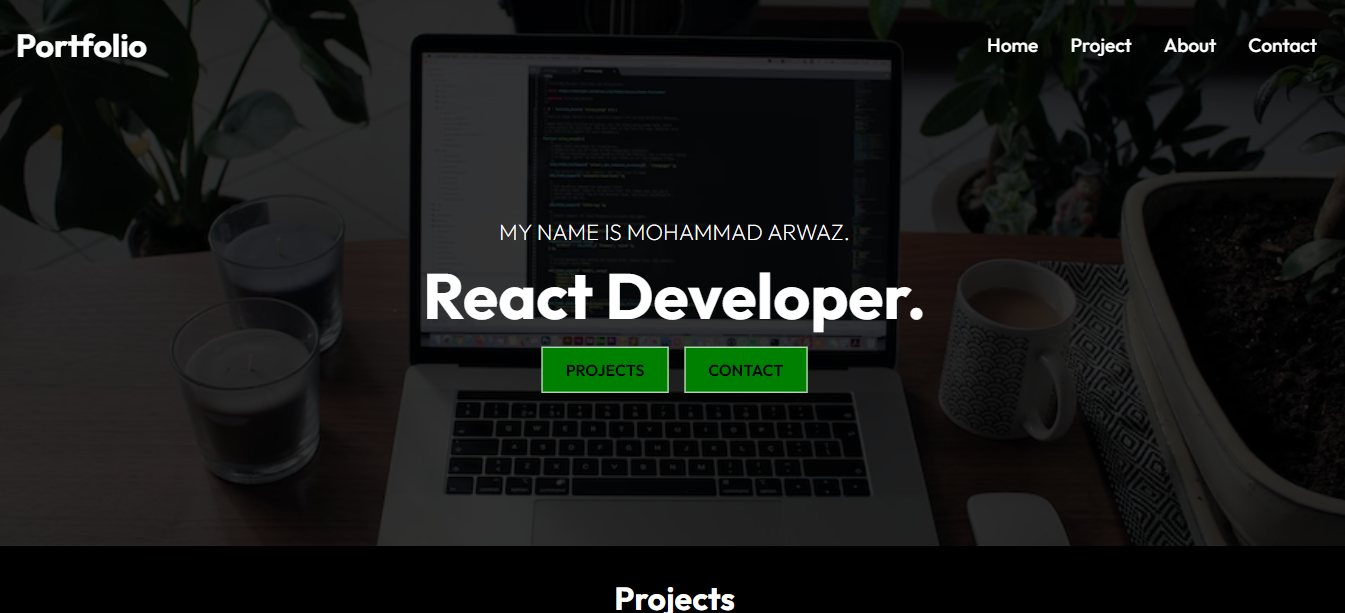
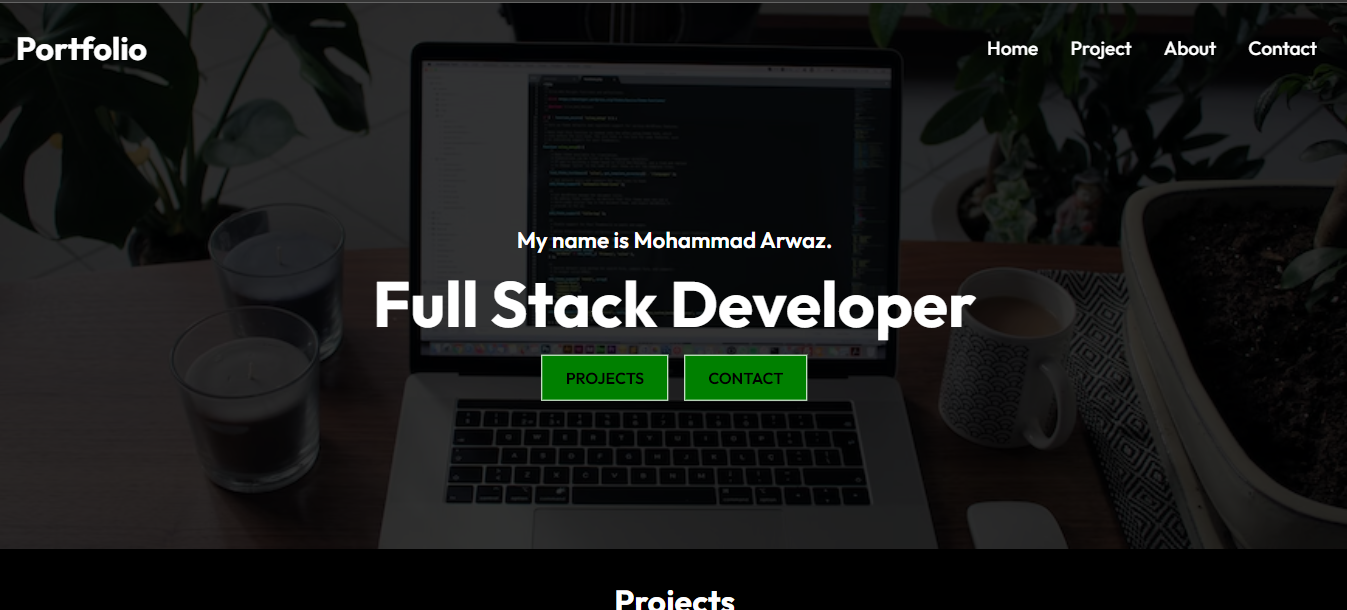
update my about section

diff --git a/src/components/WorkCardData.js b/src/components/WorkCardData.js
@@ -8,7 +8,7 @@ const ProjectCardData = [
     {
         imgsrc: pro1,
         title: 'My Portfolio',
-        text: "Build a portfolio website using React, is a dynamic platform for presenting your work, experience, skills, sharing personal information like contact, address,  email, about and highlighting your accomplishments. It serves as a perpetual showcase for projects and case studies, offering an effective means of self-expression and establishing your professional identity.",
+        text: "Built a portfolio app using MERN Stack, is a dynamic platform for presenting my work, experience, skills, sharing personal information like contact, address, email, about and highlighting your accomplishments. It serves as a perpetual showcase for projects and case studies, offering an effective means of self-expression and establishing your professional identity.",
         view: 'https://my-portfolio-md-arwaz.web.app/',
         source: 'https://github.com/mdarwaz0786/my-portfolio',
     },
@@ -16,7 +16,7 @@ const ProjectCardData = [
     {
         imgsrc: pro2,
         title: 'E-Shop',
-        text: "Build an e-commerce website using React, that facilitates online buying and selling of physical goods, services, and digital products, replacing traditional brick-and-mortar transactions. It serves as a digital platform through which businesses efficiently process customer orders, providing a seamless and convenient shopping experience on the internet.",
+        text: "Built an e-commerce web app using MERN Stack, that facilitates online buying and selling of physical goods, services, and digital products, replacing traditional brick-and-mortar transactions. It serves as a digital platform through which businesses efficiently process customer orders, providing a seamless and convenient shopping experience on the internet.",
         view: 'https://e-shop-mdarwaz.web.app/',
         source: 'https://github.com/mdarwaz0786/e-shop',
     },
@@ -24,7 +24,7 @@ const ProjectCardData = [
     {
         imgsrc: pro3,
         title: 'w3school Clone',
-        text: 'Build w3Schools clone using React. is a prominent online education platform known for its free web development tutorials. Its standout feature is the "Try it Yourself" editor, enabling users to practice coding within each tutorial. This interactive approach fosters hands-on learning, making it a favored choice for web development, Mobile development enthusiasts.',
+        text: 'Built w3School clone using MERN Stack, is a prominent online education platform known for its free web development tutorials. Its standout feature is the "Try it Yourself" with code editor, enabling users to practice coding within each tutorial. This interactive approach fosters hands-on learning, making it a favored choice for web development, Mobile development enthusiasts.',
         view: 'https://w3school-clone-md-arwaz.web.app/',
         source: 'https://github.com/mdarwaz0786/w3school',
     },
@@ -32,7 +32,7 @@ const ProjectCardData = [
     {
         imgsrc: pro4,
         title: 'Weather App',
-        text: "Build weather app using React Native, is a user-friendly mobile application that provides real-time meteorological information, forecasts, and weather-related data. Users can access accurate weather updates, including temperature, precipitation, and forecasts, making it an essential tool for planning outdoor activities and staying informed about local or global weather conditions",
+        text: "Built weather Android app using React Native, is a user-friendly mobile application that provides real-time meteorological information, forecasts, and weather-related data. Users can access accurate weather updates, including temperature, precipitation, and forecasts, making it an essential tool for planning outdoor activities and staying informed about local or global weather conditions",
         view: 'https://expo.dev/accounts/mdarwaz0786/projects/Weather-App/builds/c8f66f9f-c316-41eb-8582-d0ecfcc920d6',
         source: 'https://github.com/mdarwaz0786/weather-app',
     },

diff --git a/src/components/Footer.js b/src/components/Footer.js
@@ -6,6 +6,7 @@ import { FaMailBulk } from 'react-icons/fa';
 import { FaFacebook } from 'react-icons/fa';
 import { FaTwitter } from 'react-icons/fa';
 import { FaLinkedin } from 'react-icons/fa';
+import { Link } from 'react-router-dom';
 
 const Footer = () => {
     return (
@@ -15,34 +16,37 @@ const Footer = () => {
                     <div className='location'>
                         <p><FaHome size={20} style=
                             {{ color: '#fff', marginRight: '2rem' }} />
-                            Ward no. 10, Jitwarpur Kumhira, Samastipur, Bihar.
+                            Samastipur, Bihar, India
                         </p>
                     </div>
                     <div className='phone'>
-                        <h4><FaPhone size={20} style=
-                            {{ color: '#fff', marginRight: '2rem' }} />+91-8340723693</h4>
+                        <p><FaPhone size={20} style=
+                            {{ color: '#fff', marginRight: '2rem' }} />+91-8340723693</p>
                     </div>
                     <div className='email'>
-                        <h4><FaMailBulk size={20} style=
-                            {{ color: '#fff', marginRight: '2rem' }} />mdarwaznew2017@gmail.com</h4>
+                        <p><FaMailBulk size={20} style=
+                            {{ color: '#fff', marginRight: '2rem' }} />mohammadarwaz2024@gmail.com</p>
                     </div>
                 </div>
 
                 <div className='right'>
-                    <h4>About me :</h4>
-                    <p>My name is Mohammad Arwaz. I am a React Front-End Developer. I enjoy discussing new projects and develop challanges.</p>
+                    <p style={{ fontSize: "1.8rem" }}>About me :</p>
+                    <p>My name is Mohammad Arwaz. I am a Full Stack Developer. I enjoy discussing new projects and develop challanges.</p>
                     <div className='social'>
-                        <FaFacebook size={30} style=
-                            {{ color: '#fff', marginRight: '1rem' }} />
-                        <FaTwitter size={30} style=
-                            {{ color: '#fff', marginRight: '1rem' }} />
-                        <FaLinkedin size={30} style=
-                            {{ color: '#fff', marginRight: '1rem' }} />
+                        <Link to="https://www.facebook.com/" target="_blank" className='socialLink'>
+                            <FaFacebook size={30} style={{ color: '#fff', marginRight: '1rem', cursor: "pointer" }} />
+                        </Link>
+                        <Link to="https://twitter.com/" target="_blank" className='socialLink'>
+                            <FaTwitter size={30} style={{ color: '#fff', marginRight: '1rem', cursor: "pointer" }} />
+                        </Link>
+                        <Link to="https://www.linkedin.com/in/mdarwaz0786/" target="_blank" className='socialLink'>
+                            <FaLinkedin size={30} style={{ color: '#fff', marginRight: '1rem', cursor: "pointer" }} />
+                        </Link>
                     </div>
                 </div>
             </div>
         </div>
-    )
-}
+    );
+};
 
 export default Footer;

diff --git a/src/components/PricingCard.js b/src/components/PricingCard.js
@@ -4,6 +4,7 @@ import { Link } from 'react-router-dom';
 
 const PricingCard = () => {
     return <div className='pricing'>
+        <h1 style={{ display: "flex", justifyContent: "center", marginBottom: "2rem", marginTop: "2rem" }}>My Services</h1>
         <div className='card-container'>
             <div className='card'>
                 <h3>- Basics -</h3>
@@ -12,27 +13,33 @@ const PricingCard = () => {
                 <p>- 3 Days -</p>
                 <p>- 3 Pages -</p>
                 <p>- Featured-</p>
-                <p>- Responsive Design -</p>
+                <p>- Responsive -</p>
+                <p>- Web Development -</p>
+                <p>- Mobile Development -</p>
                 <Link to='/contact' className='btn'>PURCHASE NOW</Link>
             </div>
             <div className='card'>
                 <h3>- Premium -</h3>
                 <span className='bar'></span>
                 <p className='btc'>$200</p>
-                <p>- 2 Days -</p>
+                <p>- 5 Days -</p>
                 <p>- 5 Pages -</p>
                 <p>- Featured-</p>
-                <p>- Responsive Design -</p>
+                <p>- Responsive -</p>
+                <p>- Web Development -</p>
+                <p>- Mobile Development -</p>
                 <Link to='/contact' className='btn'>PURCHASE NOW</Link>
             </div>
             <div className='card'>
                 <h3>- Business -</h3>
                 <span className='bar'></span>
                 <p className='btc'>$300</p>
-                <p>- 5 Days -</p>
-                <p>- 8 Pages -</p>
+                <p>- 7 Days -</p>
+                <p>- 7 Pages -</p>
                 <p>- Featured-</p>
-                <p>- Responsive Design -</p>
+                <p>- Responsive -</p>
+                <p>- Web Development -</p>
+                <p>- Mobile Development -</p>
                 <Link to='/contact' className='btn'>PURCHASE NOW</Link>
             </div>
         </div>

diff --git a/src/components/Work.js b/src/components/Work.js
@@ -8,19 +8,20 @@ const Work = () => {
         <div className='work-container'>
             <h1 className='project-heading'>Projects</h1>
             <div className='project-container'>
-                {WorkCardData.map((val, ind) => {
-                    return (
-                        <WorkCard
-
-                            key={ind}
-                            imgsrc={val.imgsrc}
-                            title={val.title}
-                            text={val.text}
-                            view={val.view}
-                            source={val.source}
-                        />
-                    );
-                })};
+                {
+                    WorkCardData.map((val, ind) => {
+                        return (
+                            <WorkCard
+                                key={ind}
+                                imgsrc={val.imgsrc}
+                                title={val.title}
+                                text={val.text}
+                                view={val.view}
+                                source={val.source}
+                            />
+                        );
+                    })
+                }
             </div>
         </div>
     );

diff --git a/src/components/AboutContent.js b/src/components/AboutContent.js
@@ -1,23 +1,20 @@
 import './AboutContentStyle.css';
 import React from 'react';
 import { Link } from 'react-router-dom';
-import React1 from '../assets/react1.jpg';
-import React2 from '../assets/react2.webp';
+import mernImage from '../assets/mernImage.png';
+
 
 const AboutContent = () => {
     return <div className='about'>
         <div className='left'>
             <h1>Who Am I ?</h1>
-            <p>I am a React Front-End Developer. I build responsive secure websites for my clients.</p>
+            <p>I am a Full Stack Developer. I build responsive, user-friendly, and secure websites for my clients.</p>
             <Link to='/contact' className='btn'>CONTACT</Link>
         </div>
         <div className='right'>
             <div className='img-container'>
-                <div className='img-stack top'>
-                    <img className='img' src={React1} alt='ReactImage1' />
-                </div>
                 <div className='img-stack bottom'>
-                    <img className='img' src={React2} alt='ReactImage2' />
+                    <img className='img' src={mernImage} alt='mernImage' />
                 </div>
             </div>
         </div>

diff --git a/src/components/HeroImg.js b/src/components/HeroImg.js
@@ -1,6 +1,6 @@
 import './HeroImgStyle.css';
 import React from 'react';
-import IntroImg from '../assets/intro-bg.jpg';
+import IntroImg from '../assets/intro-bg.png';
 import { Link } from 'react-router-dom';
 
 const HeroImg = () => {
@@ -9,14 +9,14 @@ const HeroImg = () => {
             <img className='into-img' src={IntroImg} alt='IntroImage' />
         </div>
         <div className='content'>
-            <p>My name is Mohammad Arwaz.</p>
-            <h1>React Developer.</h1>
+            <p style={{ fontWeight: "600" }}>My name is Mohammad Arwaz.</p>
+            <h1>Full Stack Developer</h1>
             <div>
                 <Link to='/project' className='btn'>Projects</Link>
                 <Link to='/contact' className='btn'>Contact</Link>
             </div>
         </div>
-    </div>;
+    </div>
 };
 
 export default HeroImg;

diff --git a/src/components/WorkCard.js b/src/components/WorkCard.js
@@ -10,11 +10,11 @@ const WorkCard = (props) => {
             <div className='pro-details'>
                 <p>{props.text}</p>
                 <div className='pro-btns'>
-                    <NavLink to={props.view} className='btn'>View</NavLink>
-                    <NavLink to={props.source} className='btn'>Code</NavLink>
+                    <NavLink to={props.view} className='btn' target='_blank'>View</NavLink>
+                    <NavLink to={props.source} className='btn' target='_blank'>Code</NavLink>
                 </div>
             </div>
         </div>
-    )
+    );
 };
 export default WorkCard;

diff --git a/src/components/PricingCardStyle.css b/src/components/PricingCardStyle.css
@@ -2,7 +2,8 @@
     width: 100%;
     padding: 1rem;
     padding-bottom: 5rem;
-    background: #000;
+    margin-top: 2rem;
+    background: #222121;
 }
 
 .card-container {
@@ -48,14 +49,14 @@
 
 .card .btn {
     display: block;
-    width:80%;
-    margin:2rem auto;
+    width: 80%;
+    margin: 2rem auto;
 }
 
-@media only screen and (max-width:768px){
+@media only screen and (max-width:768px) {
     .card-container {
-       max-width: 90%;
-       margin: auto;
-       grid-template-columns: 1fr;
-   }
+        max-width: 90%;
+        margin: auto;
+        grid-template-columns: 1fr;
+    }
 }

diff --git a/src/routes/About.js b/src/routes/About.js
@@ -3,14 +3,16 @@ import Navbar from '../components/Navbar.js';
 import Footer from '../components/Footer.js';
 import HeroImg2 from '../components/HeroImg2.js';
 import AboutContent from '../components/AboutContent.js';
+import PricingCard from '../components/PricingCard.js';
 
 const About = () => {
     return <div>
         <Navbar />
-        <HeroImg2 heading='About:' text='I am a React Front-End Developer.' />
+        <HeroImg2 heading='About:' text='I am a Full Stack Developer.' />
         <AboutContent />
+        <PricingCard />
         <Footer />
     </div>
-}
+};
 
 export default About;

diff --git a/src/routes/Project.js b/src/routes/Project.js
@@ -2,7 +2,6 @@ import React from 'react';
 import Navbar from '../components/Navbar.js';
 import Footer from '../components/Footer.js';
 import HeroImg2 from '../components/HeroImg2.js';
-import PricingCard from '../components/PricingCard.js';
 import Work from '../components/Work.js';
 
 const Project = () => {
@@ -10,9 +9,8 @@ const Project = () => {
     <Navbar />
     <HeroImg2 heading='Projects:' text='some of my most recent works.' />
     <Work />
-    <PricingCard />
     <Footer />
   </div>
-}
+};
 
 export default Project;

diff --git a/src/components/AboutContentStyle.css b/src/components/AboutContentStyle.css
@@ -24,28 +24,16 @@
 }
 
 .right .img-container {
-    display: grid;
-    grid-template-columns: repeat(12, 1fr);
     position: relative;
     align-items: center;
     text-align: center;
 }
 
 .right .img {
-    max-width: 90%;
+    max-width: 100%;
     border: 1px solid #333;
-
-}
-
-.right .top {
-    grid-column: 1 / span 8;
-    grid-row: 1;
-    padding-top: 20%;
-    z-index: 6;
 }
 
 .right .bottom {
     grid-column: 4 / -1;
-    grid-row: 1;
-    z-index: 5;
 }

diff --git a/src/components/FooterStyle.css b/src/components/FooterStyle.css
@@ -39,19 +39,25 @@
 
 .social {
     margin-top: 1rem;
+    display: flex;
+    gap: 2rem;
 }
 
-h4 {
-    font-size: 1.2rem;
-    padding-bottom: 0.7rem;
+.socialLink:hover {
+    border-bottom: 1px solid white;
+}
+
+
+.phone p {
+    padding-bottom: 1rem;
 }
 
 p {
-    font-size: 1.2rem;
+    font-size: 1.1rem;
 }
 
 @media only screen and (max-width:768px) {
-    .footer-container{
+    .footer-container {
         grid-template-columns: 1fr;
     }
 }
